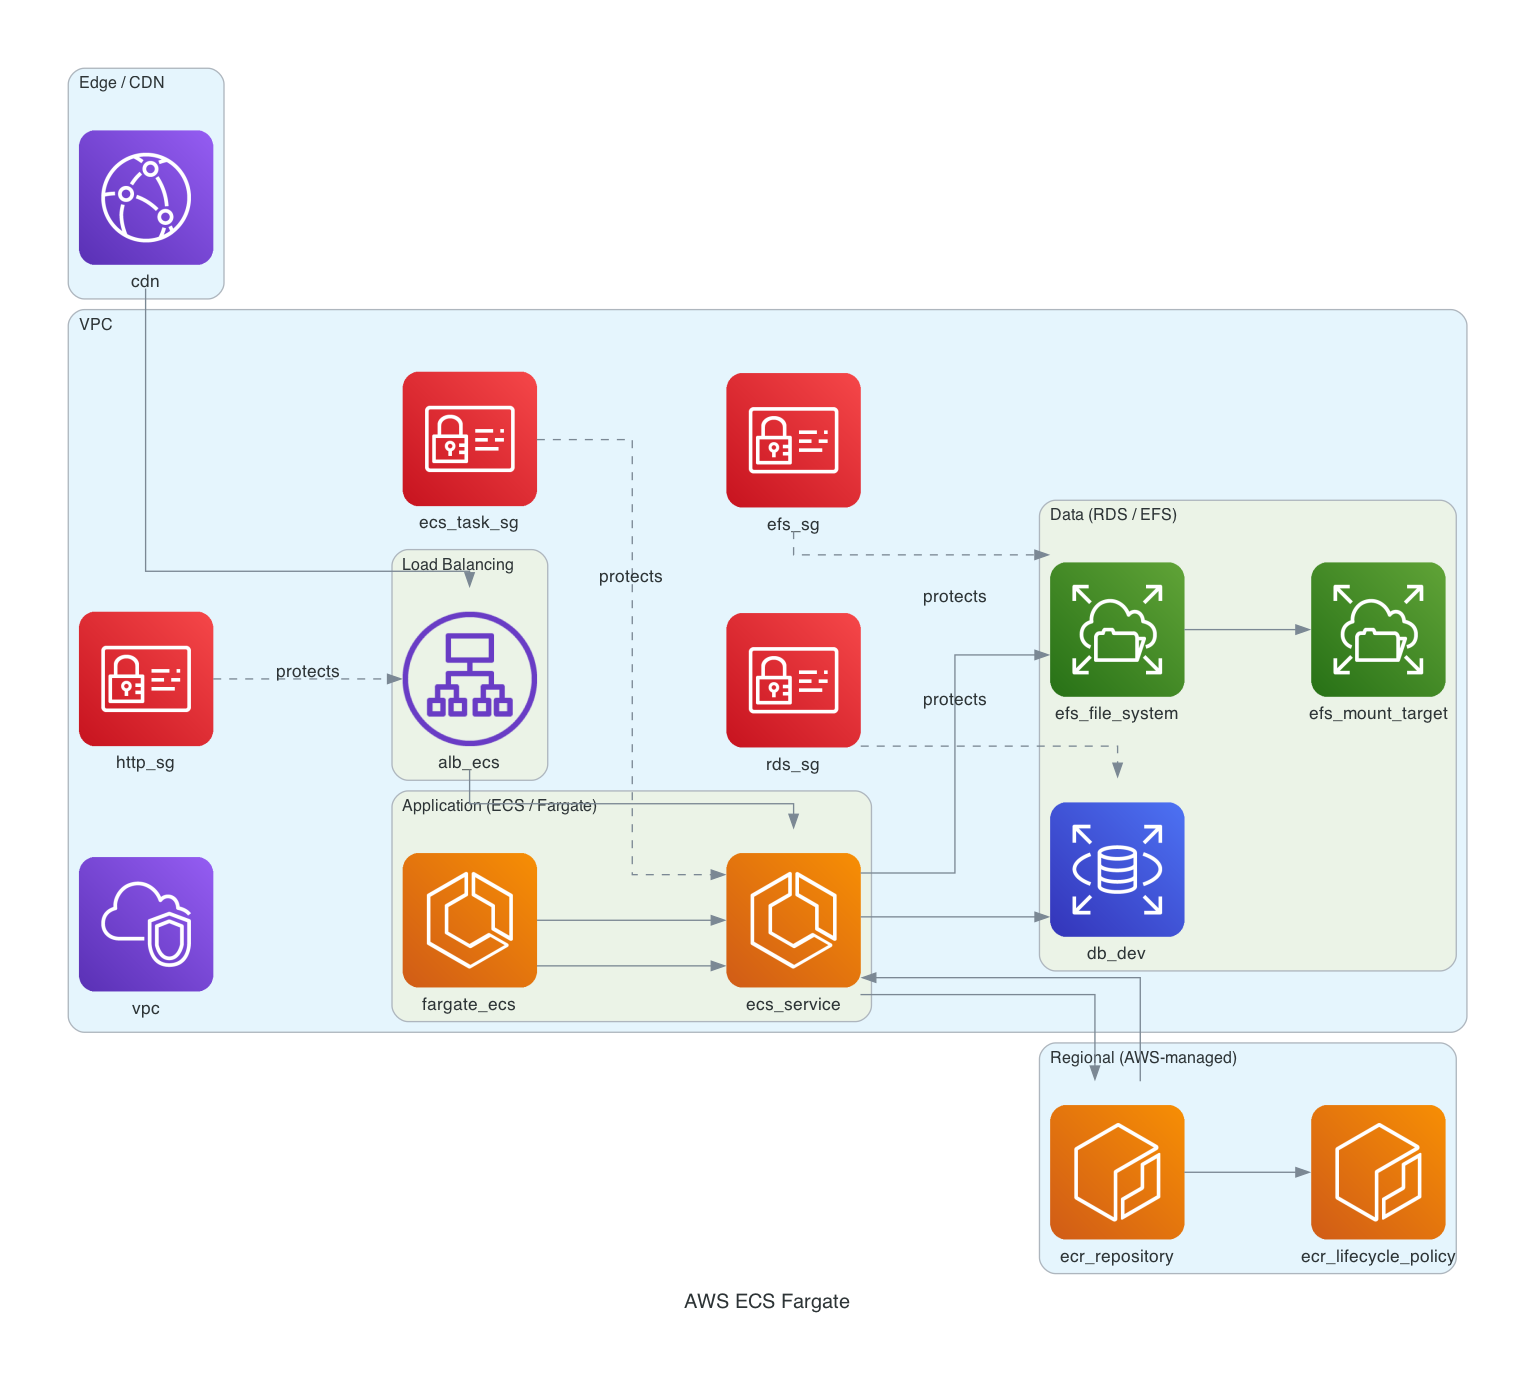
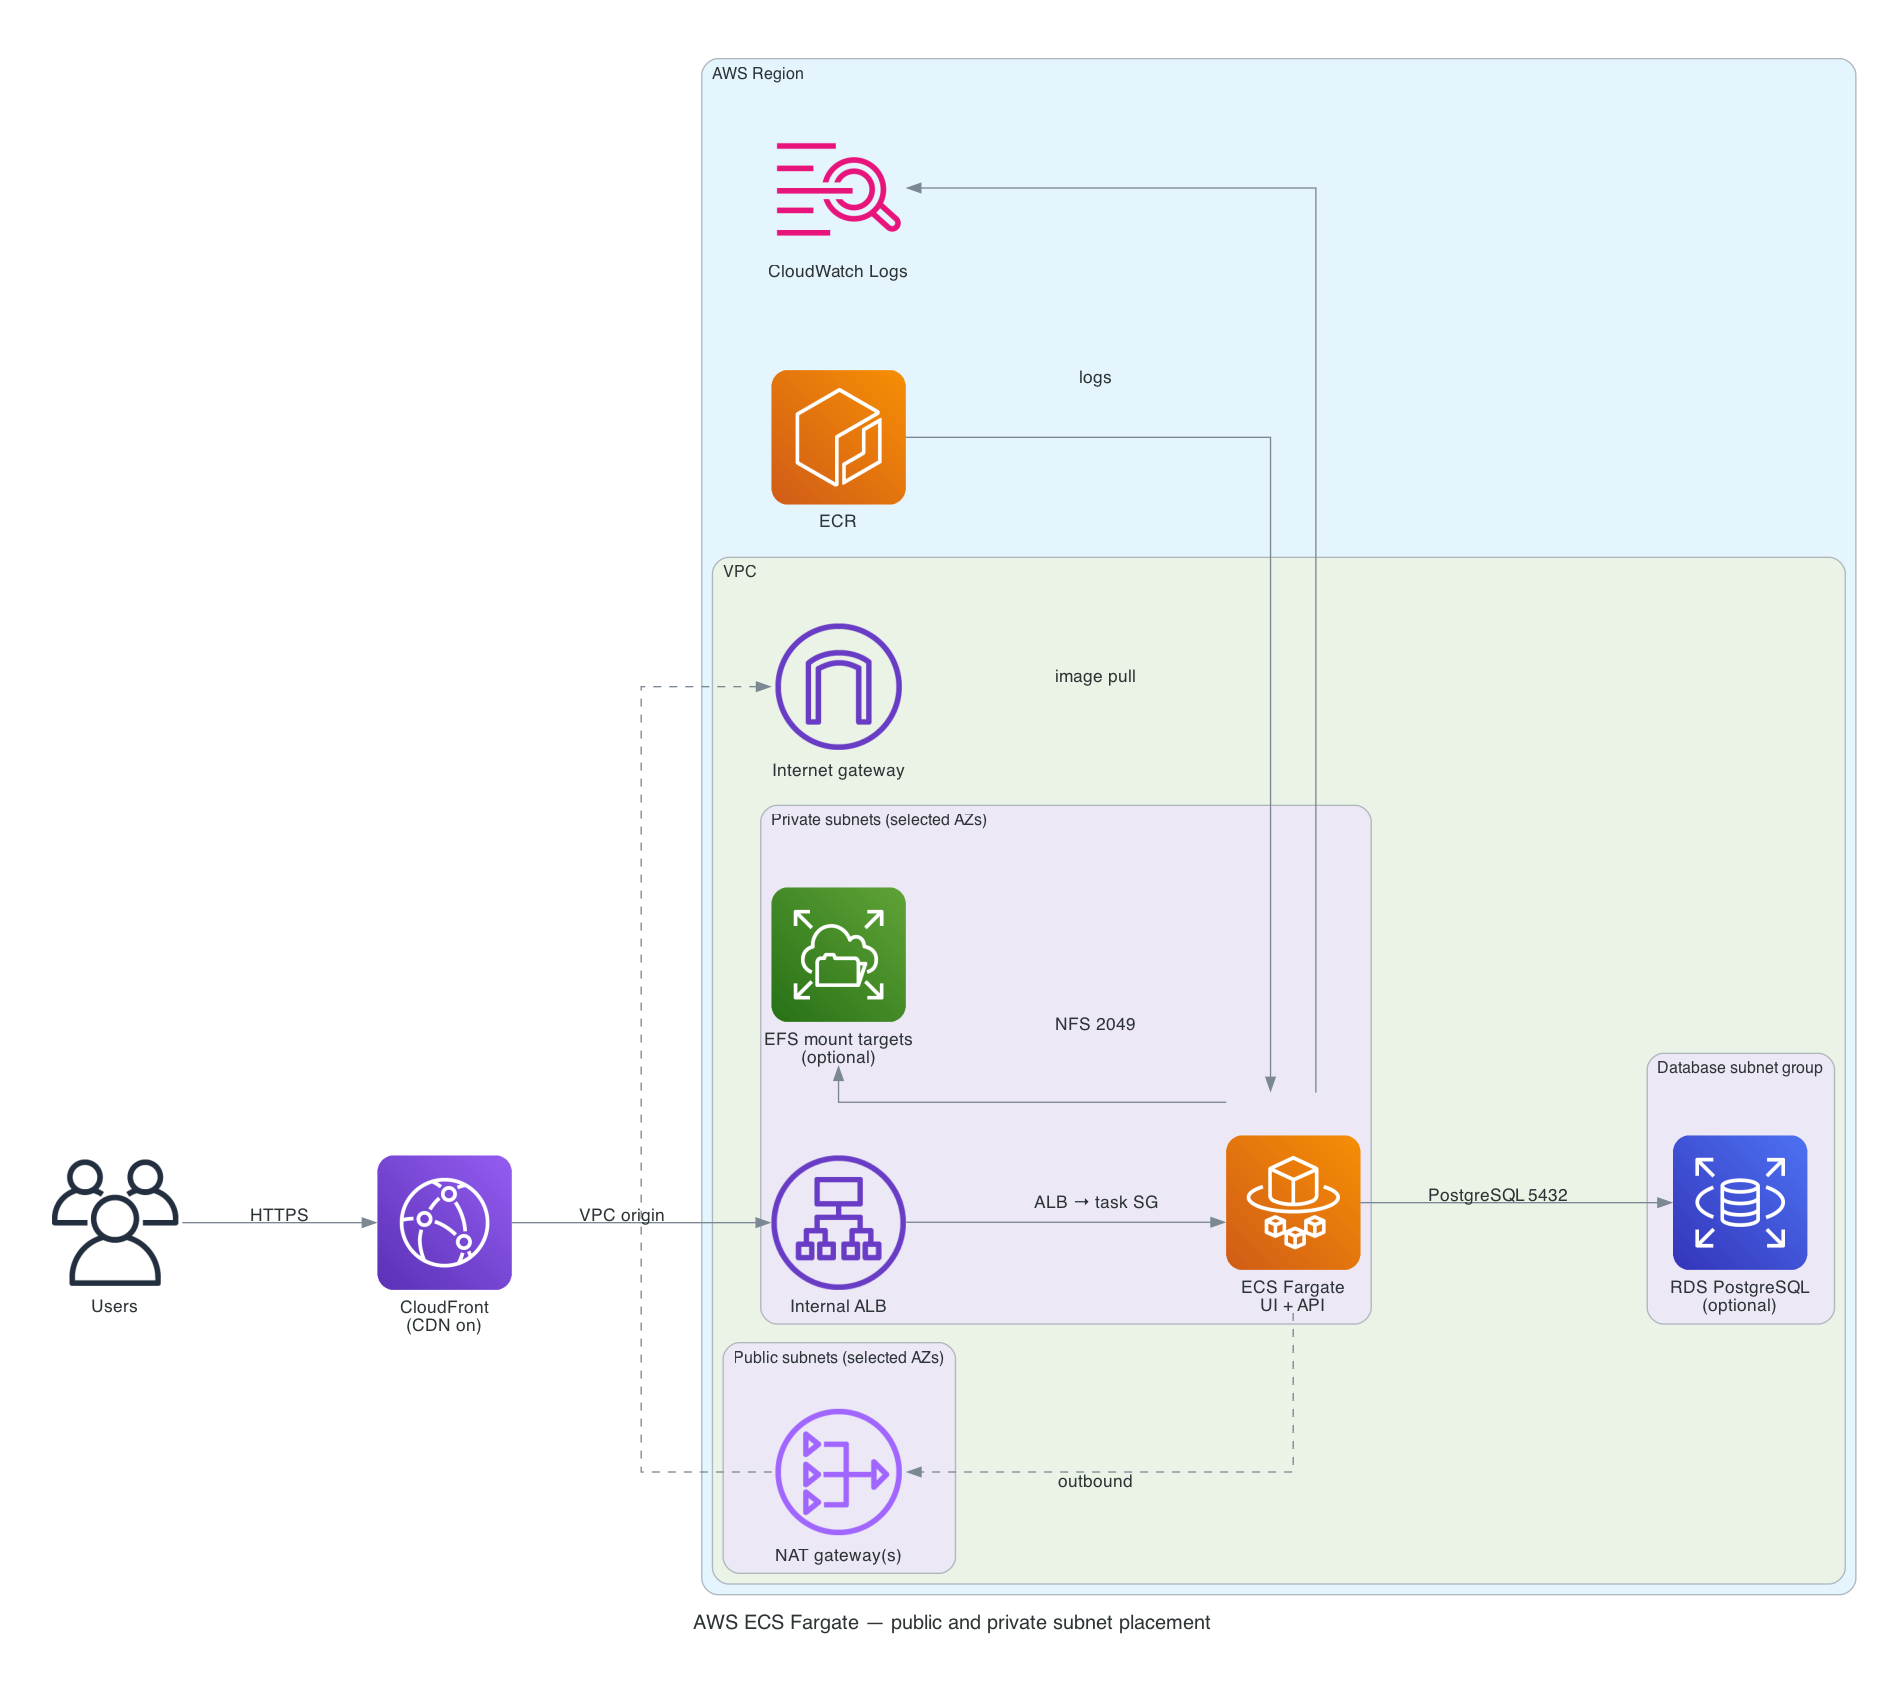
feat(diagram): map public and private subnets

diff --git a/scripts/generate_diagram.py b/scripts/generate_diagram.py
@@ -1,69 +1,15 @@
 #!/usr/bin/env python3
-"""Generate an AWS-icon architecture diagram straight from the .tf files.
+"""Generate the AWS architecture diagram from the Terraform configuration.
 
-No terraform init/state needed: we parse HCL, map each resource/module to a
-`diagrams` AWS node, and infer edges from one block referencing another.
+No Terraform state is needed. The HCL parser verifies the required stack blocks
+before rendering the public, private, and database subnet placement.
 """
 import glob
-import importlib
 import json
 import os
 import sys
 
 import hcl2
-
-# resource type / module keyword -> first diagrams class that imports wins.
-# Fallback is aws.general.General so an unknown type never breaks CI.
-ICONS = {
-    "aws_ecs_service": ["diagrams.aws.compute:ECS"],
-    "aws_ecs_task_definition": ["diagrams.aws.compute:Fargate"],
-    "aws_ecr_repository": ["diagrams.aws.compute:ECR"],
-    "aws_ecr_lifecycle_policy": ["diagrams.aws.compute:ECR"],
-    "aws_efs_file_system": ["diagrams.aws.storage:EFS"],
-    "aws_efs_mount_target": ["diagrams.aws.storage:EFS"],
-    "aws_cloudwatch_log_group": ["diagrams.aws.management:Cloudwatch"],
-    "aws_iam_role": ["diagrams.aws.security:IAMRole", "diagrams.aws.security:IAM"],
-    "aws_iam_role_policy_attachment": ["diagrams.aws.security:IAM"],
-    "aws_appautoscaling_target": ["diagrams.aws.compute:EC2AutoScaling", "diagrams.aws.compute:AutoScaling"],
-    "aws_appautoscaling_policy": ["diagrams.aws.compute:EC2AutoScaling", "diagrams.aws.compute:AutoScaling"],
-}
-# module names are freeform, so match by keyword.
-MODULE_ICONS = {
-    "vpc": ["diagrams.aws.network:VPC"],
-    "alb": ["diagrams.aws.network:ALB", "diagrams.aws.network:ELB"],
-    "cdn": ["diagrams.aws.network:CloudFront"],
-    "cloudfront": ["diagrams.aws.network:CloudFront"],
-    "rds": ["diagrams.aws.database:RDS"],
-    "db": ["diagrams.aws.database:RDS"],
-    "ecs": ["diagrams.aws.compute:ECS"],
-    "fargate": ["diagrams.aws.compute:Fargate"],
-    "sg": ["diagrams.aws.security:IAM"],
-}
-FALLBACK = ["diagrams.aws.general:General"]
-
-
-def _resolve(candidates):
-    for c in candidates + FALLBACK:
-        mod, cls = c.split(":")
-        try:
-            return getattr(importlib.import_module(mod), cls)
-        except (ImportError, AttributeError):
-            continue
-    raise RuntimeError("no diagrams class resolved, is `diagrams` installed?")
-
-
-def _icon_for(addr):
-    if addr.startswith("module."):
-        name = addr.split(".", 1)[1].lower()
-        if name.endswith("sg") or name.endswith("_sg"):
-            return MODULE_ICONS["sg"]
-        for kw, cands in MODULE_ICONS.items():
-            if kw in name:
-                return cands
-        return FALLBACK
-    rtype = addr.split(".", 1)[0]
-    return ICONS.get(rtype, FALLBACK)
-
 
 def _unq(s):
     # some python-hcl2 versions keep the surrounding quotes inside the key.
@@ -96,119 +42,58 @@ def infer_edges(bodies):
     return edges
 
 
-def _tier(addr):
-    if addr.startswith("module."):
-        name = addr.split(".", 1)[1].lower()
-        if name.endswith("sg") or name.endswith("_sg"):
-            return "Security Groups"
-        if "vpc" in name:
-            return "Network"
-        if "cdn" in name or "cloudfront" in name:
-            return "Edge"
-        if "alb" in name or "lb" in name:
-            return "Load Balancing"
-        if "db" in name or "rds" in name:
-            return "Data"
-        return "Compute"
-    rtype = addr.split(".", 1)[0]
-    if any(k in rtype for k in ("efs", "rds", "_db", "s3")):
-        return "Data"
-    if "ecr" in rtype or "cloudwatch" in rtype:
-        return "Regional"  # AWS-managed, lives outside the VPC
-    return "Compute"
-
-
-def _label(addr):
-    # drop noise: module.x -> x ; aws_ecr_repository.main -> ecr_repository
-    if addr.startswith("module."):
-        return addr.split(".", 1)[1]
-    return addr.split(".", 1)[0].removeprefix("aws_")
-
-
-def _find(bodies, tier, *keywords):
-    """First node in `tier` matching any keyword (by priority), else any."""
-    cands = [a for a in bodies if _tier(a) == tier]
-    for kw in keywords:
-        for a in cands:
-            if kw in a:
-                return a
-    return cands[0] if cands else None
-
-
 def render(bodies, out="images/architecture-diagram"):
-    from collections import defaultdict
-
     from diagrams import Cluster, Diagram, Edge
+    from diagrams.aws.compute import ECR, Fargate
+    from diagrams.aws.database import RDS
+    from diagrams.aws.management import CloudwatchLogs
+    from diagrams.aws.network import ALB, CloudFront, InternetGateway, NATGateway
+    from diagrams.aws.storage import EFS
+    from diagrams.onprem.client import Users
 
-    groups = defaultdict(list)
-    for addr in bodies:
-        groups[_tier(addr)].append(addr)
-
-    nodes = {}
-
-    def place(addr):
-        nodes[addr] = _resolve(_icon_for(addr))(_label(addr))
-
-    def cluster(label, tier):
-        if groups[tier]:
-            with Cluster(label):
-                for addr in groups[tier]:
-                    place(addr)
+    required = {"module.vpc", "module.alb_ecs", "module.ecs_service"}
+    missing = required - bodies.keys()
+    if missing:
+        raise ValueError(f"missing required Terraform blocks: {sorted(missing)}")
 
     os.makedirs(os.path.dirname(out) or ".", exist_ok=True)
-    graph_attr = {"ranksep": "1.3", "nodesep": "0.6", "pad": "0.6",
+    graph_attr = {"ranksep": "1.4", "nodesep": "0.7", "pad": "0.5",
                   "splines": "ortho", "compound": "true"}
-    with Diagram("AWS ECS Fargate", filename=out, outformat="png",
+    with Diagram("AWS ECS Fargate — public and private subnet placement",
+                 filename=out, outformat="png",
                  show=False, direction="LR", graph_attr=graph_attr):
-        cluster("Edge / CDN", "Edge")
-        cluster("Regional (AWS-managed)", "Regional")
-        with Cluster("VPC"):
-            for addr in groups["Network"]:  # the VPC itself, no wrapping subbox
-                place(addr)
-            cluster("Load Balancing", "Load Balancing")
-            cluster("Application (ECS / Fargate)", "Compute")
-            cluster("Data (RDS / EFS)", "Data")
-            for addr in groups["Security Groups"]:  # placed by their protects-edge
-                place(addr)
+        users = Users("Users")
+        cdn = CloudFront("CloudFront\n(CDN on)")
 
-        # curated flow backbone: internet -> cdn -> alb -> ecs -> data.
-        cdn = _find(bodies, "Edge")
-        lb = _find(bodies, "Load Balancing")
-        svc = _find(bodies, "Compute", "ecs_service", "service", "ecs")
-        ecr = _find(bodies, "Regional", "ecr_repository", "ecr")
-        cw = _find(bodies, "Regional", "cloudwatch")
-        far = _find(bodies, "Compute", "fargate")
-        data = [a for a in bodies if _tier(a) == "Data" and "mount" not in a]
+        with Cluster("AWS Region"):
+            ecr = ECR("ECR")
+            logs = CloudwatchLogs("CloudWatch Logs")
 
-        def link(a, b, **kw):
-            if a and b and a in nodes and b in nodes:
-                nodes[a] >> Edge(**kw) >> nodes[b]
+            with Cluster("VPC"):
+                internet_gateway = InternetGateway("Internet gateway")
 
-        link(cdn, lb)
-        link(lb, svc)
-        link(ecr, svc)
-        link(far, svc)
-        link(svc, cw)
-        for d in data:
-            link(svc, d)
-        # intra-tier sub-resource links (ecr->lifecycle, efs->mount).
-        for dep, user in infer_edges(bodies):
-            if _tier(dep) == _tier(user) and _tier(dep) in (
-                    "Compute", "Data", "Regional"):
-                link(dep, user)
-        # tie each security group to the resource it actually protects.
-        def _sg_target(sg):
-            name = sg.split(".", 1)[1].lower()
-            if any(k in name for k in ("http", "alb", "lb")):
-                return lb
-            if any(k in name for k in ("rds", "db")):
-                return _find(bodies, "Data", "db", "rds")
-            if "efs" in name:
-                return _find(bodies, "Data", "efs_file_system", "efs")
-            return svc  # ecs_task_sg and anything else guards the service
+                with Cluster("Public subnets (selected AZs)"):
+                    nat = NATGateway("NAT gateway(s)")
 
-        for sg in groups["Security Groups"]:
-            link(sg, _sg_target(sg), style="dashed", label="protects")
+                with Cluster("Private subnets (selected AZs)"):
+                    internal_alb = ALB("Internal ALB")
+                    service = Fargate("ECS Fargate\nUI + API")
+                    efs = EFS("EFS mount targets\n(optional)")
+
+                with Cluster("Database subnet group"):
+                    database = RDS("RDS PostgreSQL\n(optional)")
+
+        users >> Edge(label="HTTPS") >> cdn
+        cdn >> Edge(label="VPC origin") >> internal_alb
+        internal_alb >> Edge(label="ALB → task SG") >> service
+
+        ecr >> Edge(label="image pull", constraint="false") >> service
+        service >> Edge(label="logs", constraint="false") >> logs
+        service >> Edge(label="NFS 2049", constraint="false") >> efs
+        service >> Edge(label="PostgreSQL 5432") >> database
+        service >> Edge(label="outbound", style="dashed",
+                        constraint="false") >> nat
+        nat >> Edge(style="dashed", constraint="false") >> internet_gateway
 
 
 def _selfcheck():
@@ -221,6 +106,12 @@ def _selfcheck():
     assert ("module.vpc", "module.alb") in edges
     assert ("module.alb", "aws_ecs_service.main") in edges
     assert ("module.alb", "module.vpc") not in edges  # direction matters
+    try:
+        render({}, out="/tmp/unused")
+    except ValueError as error:
+        assert "missing required Terraform blocks" in str(error)
+    else:
+        raise AssertionError("render must reject an incomplete configuration")
     print("selfcheck ok")
 
 

diff --git a/docs/USER_GUIDE.md b/docs/USER_GUIDE.md
@@ -18,6 +18,12 @@ container port, and only ECS tasks to reach optional PostgreSQL and EFS.
 When CloudFront is enabled, the ALB also moves into private subnets and accepts
 origin traffic only from CloudFront's AWS-managed prefix list.
 
+The architecture diagram in the README shows this production-oriented path.
+Public subnets contain the NAT Gateways, private subnets contain the internal
+ALB, ECS service, and EFS mount targets, and the database subnet group contains
+RDS. ECR and CloudWatch remain regional managed services outside the VPC. When
+the CDN is disabled, Terraform places the ALB in the public subnets instead.
+
 The default deployment is intended for development:
 
 - two Availability Zones

diff --git a/README.md b/README.md
@@ -7,6 +7,12 @@ before publishing your own image.
 
 ![Architecture diagram](images/architecture-diagram.png)
 
+The diagram shows the recommended `create_cdn = true` path: CloudFront reaches
+an internal ALB in private subnets, while NAT Gateways remain in public subnets
+for task egress. ECR and CloudWatch are regional AWS services outside the VPC,
+and RDS uses the database subnet group. With `create_cdn = false`, the same ALB
+moves to the public subnets for direct access.
+
 ## What this starter creates
 
 - A VPC across two or more automatically discovered Availability Zones
